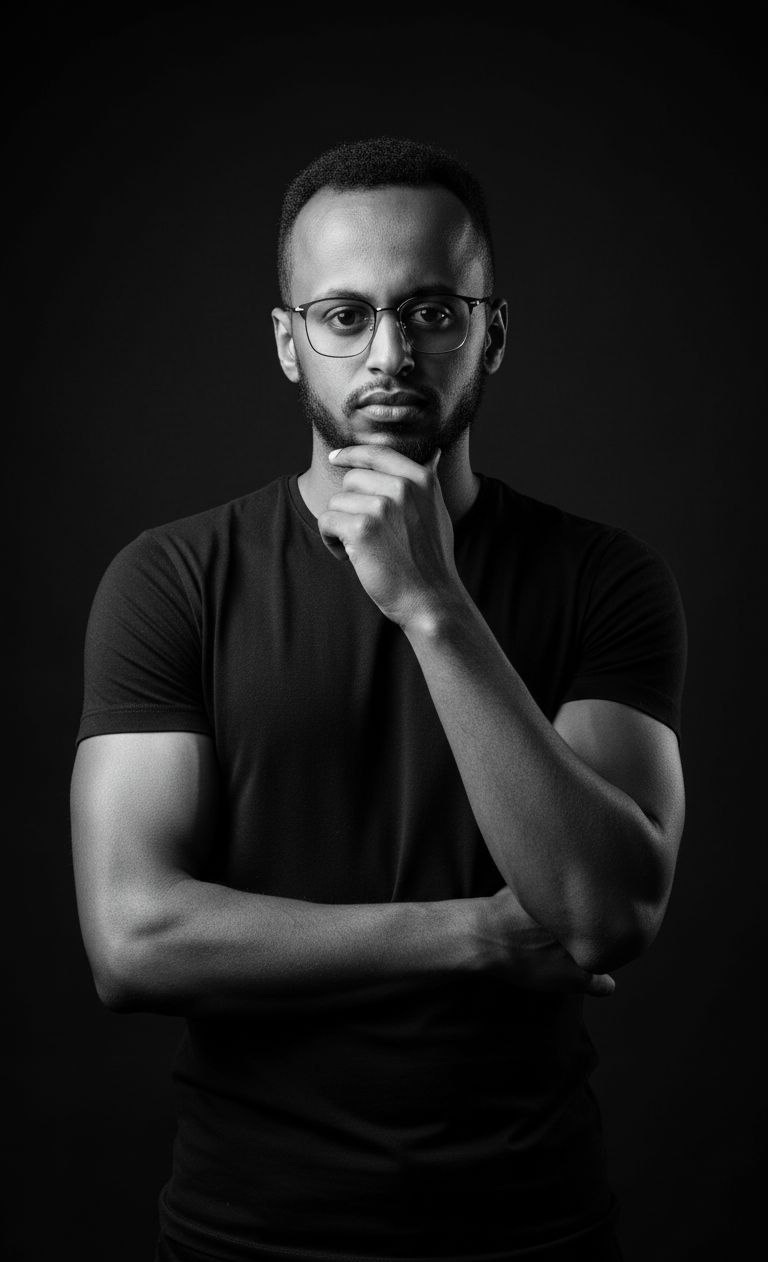
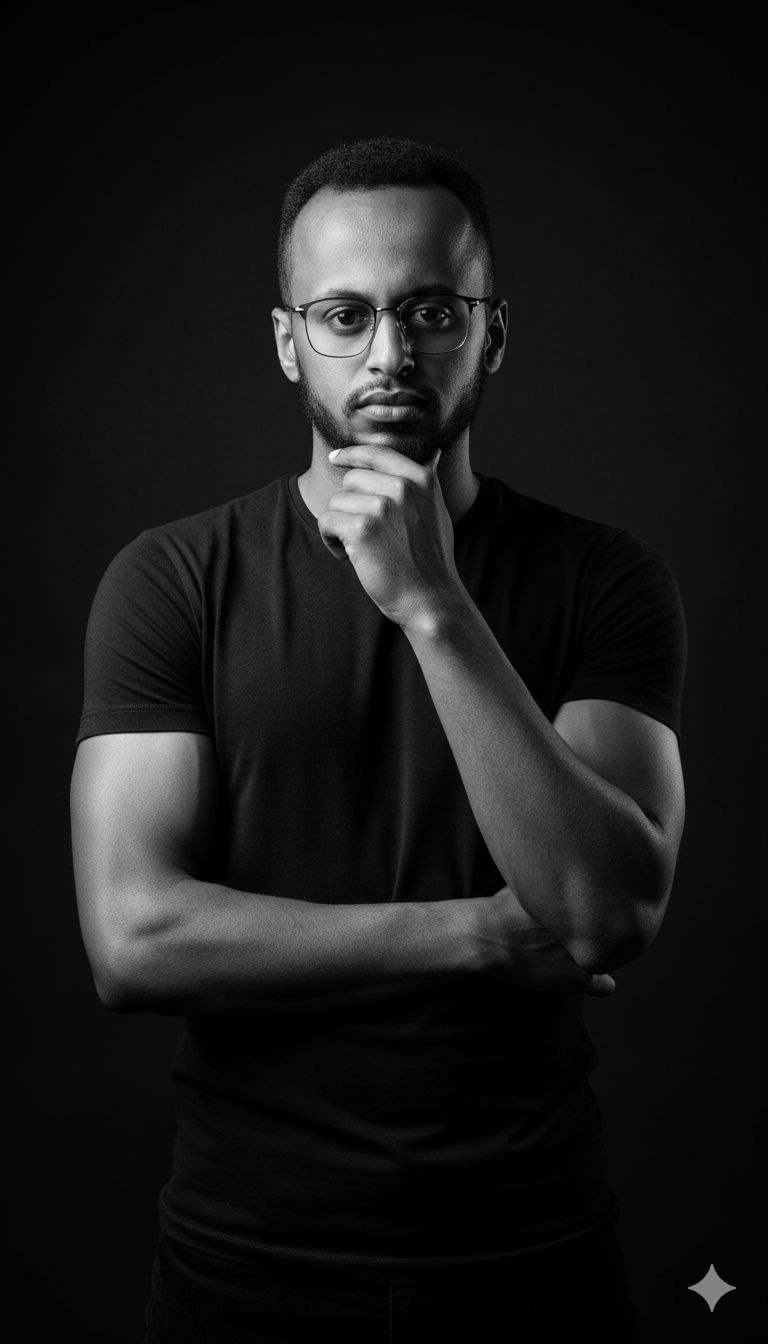
Update portfolio

diff --git a/index.html b/index.html
@@ -57,7 +57,7 @@
             <div class="hero-image">
                 <div class="hero-image-wrapper">
                     <div class="hero-image-bg"></div>
-                    <img src="./images/profile 1.jpg" alt="Developer Portrait" class="hero-img">
+                    <img src="./images/profile.jpg" alt="Developer Portrait" class="hero-img">
                 </div>
             </div>
         </div>
@@ -413,7 +413,7 @@
                 <a href="#" class="footer-logo">
                     <span class="logo-bracket">&lt;</span>Dev<span class="logo-bracket">/&gt;</span>
                 </a>
-                <p class="footer-text">Built with passion and clean code. © 2024 Alex Morgan. All rights reserved.</p>
+                <p class="footer-text">Built with passion and clean code. ©  <script type="text/javascript">document.write( new Date().getFullYear() );</script> Michael Belete. All rights reserved.</p>
                 <div class="footer-links">
                     <a href="#home">Home</a>
                     <a href="#about">About</a>
